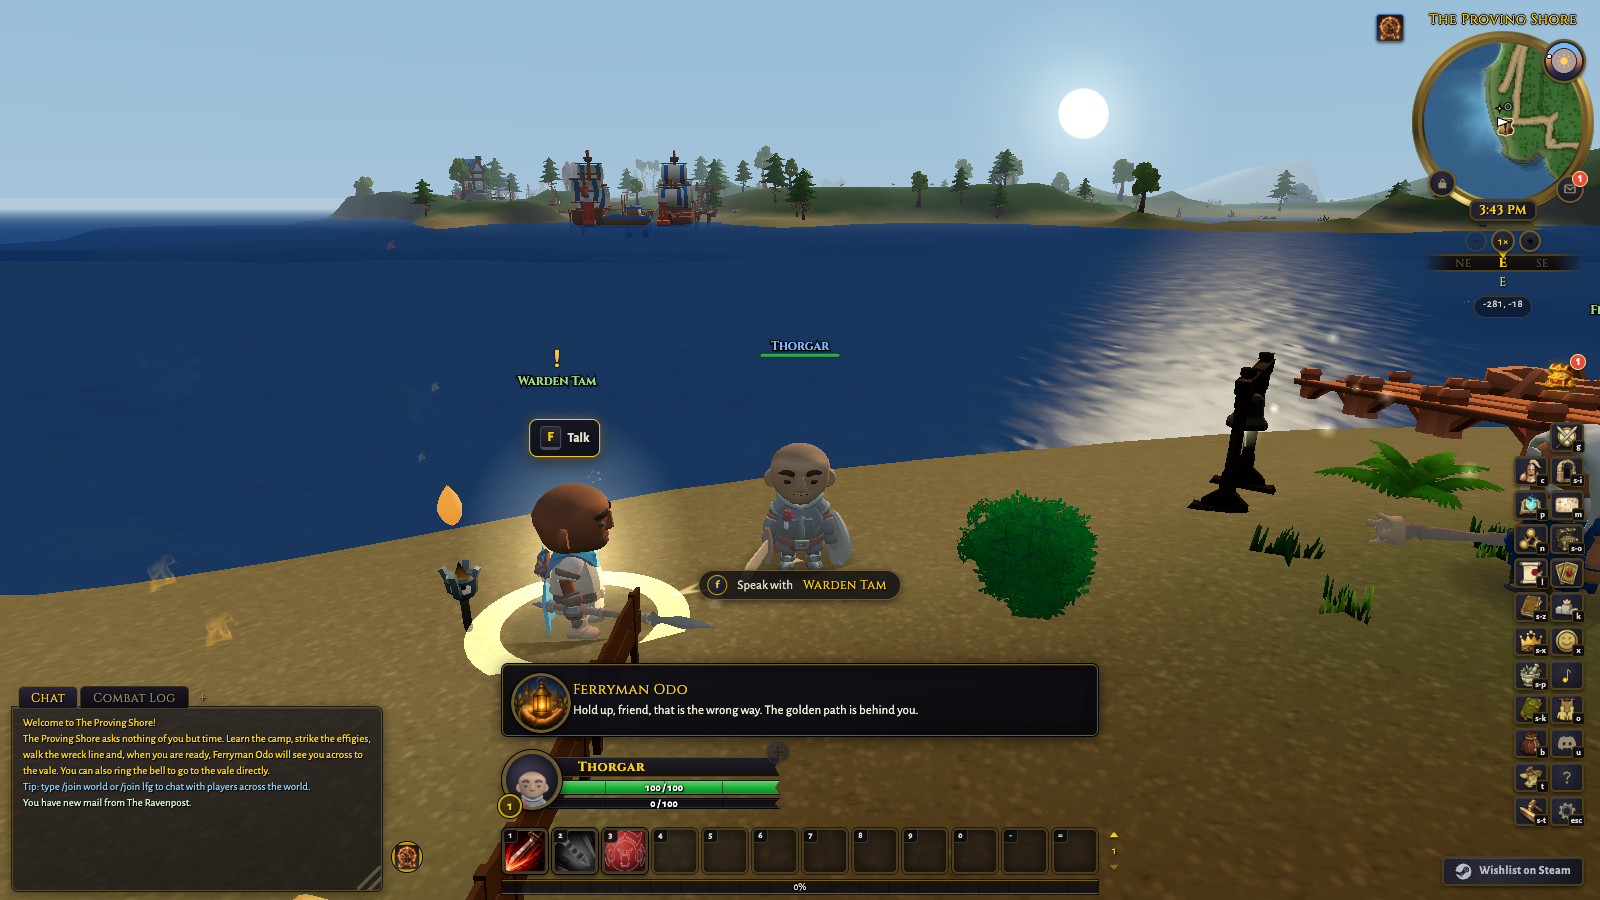
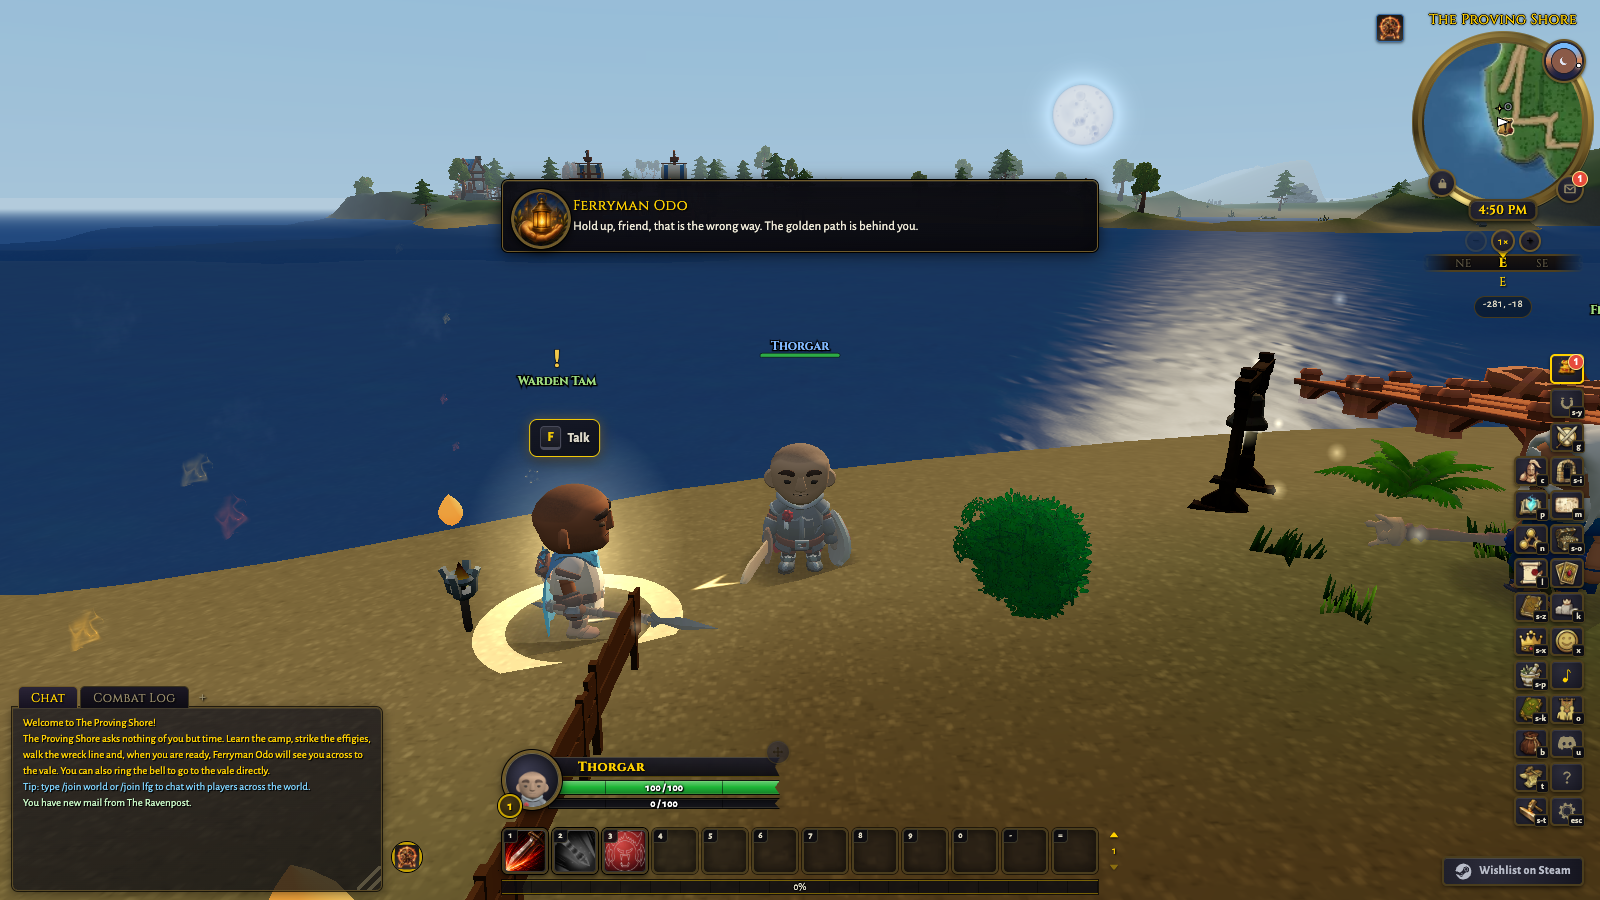
feat(hud): seat the Talking Head in view and make it a movable frame
Review round 3: seated at the top of the bottom stack, a line appearing
sat below the player's eye line and went unnoticed. The panel now rests a
fifth of the way down the screen, centred and one rail wide, between the
quest banner lane and the level banner, and it is standing markup in both
entries registered in the movable-frame table, so Unlock Interface lists
it as Dialogue with a forced placeholder to drag and resize while no line
is up, and a saved spot outranks the stock seat.

diff --git a/tests/talking_head.test.ts b/tests/talking_head.test.ts
@@ -11,6 +11,7 @@ import {
   TALKING_HEAD_ID,
   TalkingHeadController,
 } from '../src/ui/hud/talking_head';
+import { HUD_FRAME_SPECS } from '../src/ui/interface_unlock_core';
 
 const view = { viewportWidth: 1600, viewportHeight: 900, distanceYd: 10 };
 
@@ -52,17 +53,15 @@ describe('TalkingHeadController: mounts once at the top of the bottom stack and 
   let now = 1000;
   beforeEach(() => {
     now = 1000;
-    document.body.innerHTML =
-      '<div id="ui"><div id="actionbar-stack"><div id="pet-cluster"></div></div></div>';
+    document.body.innerHTML = '<div id="ui"><div id="actionbar-stack"></div></div>';
   });
 
-  it('prepends the panel to the stack, paints name and line, and hides on expiry', () => {
+  it('uses the standing panel in #ui (minting one only when the entry lacks it), paints name and line, and hides on expiry', () => {
     const c = new TalkingHeadController(() => now);
     c.say({ speakerId: 'ferryman_odo', speakerName: 'Ferryman Odo', text: 'Welcome ashore.' });
     const el = document.getElementById(TALKING_HEAD_ID) as HTMLElement;
     expect(el).not.toBeNull();
-    expect(el.previousElementSibling).toBeNull();
-    expect(el.nextElementSibling?.id).toBe('pet-cluster');
+    expect(el.parentElement?.id).toBe('ui');
     expect(el.hidden).toBe(false);
     expect(el.getAttribute('role')).toBe('status');
     expect(el.querySelector('.th-name')?.textContent).toBe('Ferryman Odo');
@@ -91,11 +90,28 @@ describe('TalkingHeadController: mounts once at the top of the bottom stack and 
 describe('talking head stylesheet seat', () => {
   const hud = readFileSync(join(__dirname, '../src/styles/hud.css'), 'utf8');
   const mobile = readFileSync(join(__dirname, '../src/styles/hud.mobile.css'), 'utf8');
-  it('rides the bottom stack above the frames on desktop and the top lane on touch', () => {
-    expect(hud).toContain('.talking-head {\n    display: flex;');
-    expect(hud).toContain('margin-bottom: var(--unit-frame-bar-gap);');
+  it('seats a fifth of the way down the screen, centred, and is a movable HUD frame', () => {
+    expect(hud).toContain(
+      '.talking-head {\n    position: absolute;\n    left: 50%;\n    top: 20%;\n    translate: -50% 0;',
+    );
+    // A saved editor spot writes inline left/top; the centring translate must
+    // not keep shifting it.
+    expect(hud).toContain('#talking-head.hud-frame-detached {\n    translate: none;');
     expect(hud).toContain('.talking-head[hidden] {\n    display: none;');
     expect(hud).not.toContain('.tut-voice {');
     expect(mobile).toContain('body.mobile-touch .talking-head {\n    position: fixed;');
+  });
+
+  it('is registered in the movable-frame table so the frames editor can seat it', () => {
+    const spec = HUD_FRAME_SPECS.find((s) => s.id === 'talkingHead');
+    expect(spec?.elementId).toBe('talking-head');
+    expect(spec?.storageKey).toBe('woc_hud_frame_talking_head');
+    expect(spec?.labelKey).toBe('hudChrome.talkingHead.label');
+    // Hidden between lines, so editing has to force the placeholder like the
+    // devotion medallion's, or there is nothing to grab.
+    expect(hud).toContain(
+      'body.interface-unlocked #talking-head.tf-unlocked {\n    display: flex !important;',
+    );
+    expect(hud).toContain('#talking-head.tf-unlocked {\n    pointer-events: auto;');
   });
 });

diff --git a/src/styles/hud.css b/src/styles/hud.css
@@ -486,18 +486,27 @@
      the top left lol"). It is a subtitle, so it sits where subtitles sit:
      low-center, above the movement bubble, clear of the unit frames. */
   /* Talking Head (src/ui/hud/talking_head/): an NPC line spoken to the player
-     while the speaker is off screen, where a world bubble would go unseen. It
-     rides the top of the bottom stack, so it sits above the unit frames and
-     grows the stack upward like the pet cluster. */
+     while the speaker is off screen, where a world bubble would go unseen. Its
+     stock seat is a fifth of the way down the screen, centred, between the
+     quest banner lane and the level banner, where a line appearing is noticed;
+     it is a movable HUD frame (HUD_FRAME_SPECS talkingHead), so a saved spot
+     outranks this seat. */
   .talking-head {
+    position: absolute;
+    left: 50%;
+    top: 20%;
+    translate: -50% 0;
+    z-index: 20;
     display: flex;
     align-items: center;
     gap: var(--spacing-sm);
-    width: 100%;
-    margin-bottom: var(--unit-frame-bar-gap);
+    width: min(var(--action-rail-w), calc(100% - 32px));
     padding: var(--spacing-sm) var(--spacing-md) var(--spacing-sm) var(--spacing-sm);
     pointer-events: none;
     text-align: left;
+  }
+  #talking-head.hud-frame-detached {
+    translate: none;
   }
   .talking-head[hidden] {
     display: none;
@@ -1627,6 +1636,7 @@
   #swingbar-offhand.tf-unlocked,
   #paladin-devotion-frame.tf-unlocked,
   #proc-overlay.tf-unlocked,
+  #talking-head.tf-unlocked,
   #meters-window.tf-unlocked {
     cursor: var(--cursor-move, move);
     outline: 1px dashed var(--gold);
@@ -1643,7 +1653,8 @@
   #delve-tracker.tf-unlocked,
   #rift-tracker.tf-unlocked,
   #paladin-devotion-frame.tf-unlocked,
-  #proc-overlay.tf-unlocked {
+  #proc-overlay.tf-unlocked,
+  #talking-head.tf-unlocked {
     pointer-events: auto;
   }
   /* The Target dots tracker and the six aura tracks are click-through in play
@@ -1925,7 +1936,8 @@
   body.interface-unlocked #petbar.tf-unlocked,
   body.interface-unlocked #stancebar.tf-unlocked,
   body.interface-unlocked #paladin-devotion-frame.tf-unlocked,
-  body.interface-unlocked .warlock-doom-frame.tf-unlocked {
+  body.interface-unlocked .warlock-doom-frame.tf-unlocked,
+  body.interface-unlocked #talking-head.tf-unlocked {
     display: flex !important;
     opacity: 0.55;
   }

diff --git a/src/ui/hud/talking_head/talking_head_controller.ts b/src/ui/hud/talking_head/talking_head_controller.ts
@@ -16,7 +16,7 @@ import {
   type TalkingHeadModel,
 } from './talking_head_core';
 
-const HOST_ID = 'actionbar-stack';
+const UI_ROOT_ID = 'ui';
 export const TALKING_HEAD_ID = 'talking-head';
 
 export class TalkingHeadController {
@@ -58,18 +58,23 @@ export class TalkingHeadController {
 
   private ensureDom(): boolean {
     if (this.root) return true;
-    const host = document.getElementById(HOST_ID);
-    if (!host) return false;
-    const el = document.createElement('div');
-    el.id = TALKING_HEAD_ID;
-    el.className = 'talking-head ui-panel-strong';
-    el.hidden = true;
-    el.setAttribute('role', 'status');
-    el.setAttribute('aria-label', t('hudChrome.talkingHead.label'));
-    el.innerHTML =
-      `<div class="portrait-wrap ui-portrait-wrap th-portrait-wrap"><div class="portrait ui-portrait"><canvas class="th-portrait" width="54" height="54"></canvas></div></div>` +
-      `<div class="th-body"><div class="th-name ui-h"></div><div class="th-text"></div></div>`;
-    host.prepend(el);
+    // The panel is standing HUD chrome in both entries (a movable frame, so it
+    // must exist at HUD boot); a headless document without it gets one minted.
+    let el = document.getElementById(TALKING_HEAD_ID);
+    if (!el) {
+      const host = document.getElementById(UI_ROOT_ID);
+      if (!host) return false;
+      el = document.createElement('div');
+      el.id = TALKING_HEAD_ID;
+      el.className = 'talking-head ui-panel-strong';
+      el.hidden = true;
+      el.setAttribute('role', 'status');
+      el.setAttribute('aria-label', t('hudChrome.talkingHead.label'));
+      el.innerHTML =
+        `<div class="portrait-wrap ui-portrait-wrap th-portrait-wrap"><div class="portrait ui-portrait"><canvas class="th-portrait" width="54" height="54"></canvas></div></div>` +
+        `<div class="th-body"><div class="th-name ui-h"></div><div class="th-text"></div></div>`;
+      host.appendChild(el);
+    }
     this.root = el;
     this.portraitEl = el.querySelector<HTMLCanvasElement>('.th-portrait');
     this.nameEl = el.querySelector<HTMLElement>('.th-name');

diff --git a/index.html b/index.html
@@ -240,6 +240,10 @@
       <span class="ctm-arrow ctm-s"></span>
       <span class="ctm-arrow ctm-w"></span>
     </div>
+    <div id="talking-head" class="talking-head ui-panel-strong" hidden role="status" data-i18n-aria="hudChrome.talkingHead.label" aria-label="Dialogue">
+      <div class="portrait-wrap ui-portrait-wrap th-portrait-wrap"><div class="portrait ui-portrait"><canvas class="th-portrait" width="54" height="54"></canvas></div></div>
+      <div class="th-body"><div class="th-name ui-h"></div><div class="th-text"></div></div>
+    </div>
     <div id="target-frame" class="unitframe" role="group" data-i18n-aria="hudChrome.unitFrame.targetLabel" aria-label="Your Mark">
       <div class="portrait-wrap ui-portrait-wrap" id="tf-portrait-wrap">
         <div class="portrait ui-portrait"><canvas id="tf-portrait" width="54" height="54"></canvas></div>

diff --git a/play.html b/play.html
@@ -190,6 +190,10 @@
       <span class="ctm-arrow ctm-s"></span>
       <span class="ctm-arrow ctm-w"></span>
     </div>
+    <div id="talking-head" class="talking-head ui-panel-strong" hidden role="status" data-i18n-aria="hudChrome.talkingHead.label" aria-label="Dialogue">
+      <div class="portrait-wrap ui-portrait-wrap th-portrait-wrap"><div class="portrait ui-portrait"><canvas class="th-portrait" width="54" height="54"></canvas></div></div>
+      <div class="th-body"><div class="th-name ui-h"></div><div class="th-text"></div></div>
+    </div>
     <div id="target-frame" class="unitframe" role="group" data-i18n-aria="hudChrome.unitFrame.targetLabel" aria-label="Your Mark">
       <div class="portrait-wrap ui-portrait-wrap" id="tf-portrait-wrap">
         <div class="portrait ui-portrait"><canvas id="tf-portrait" width="54" height="54"></canvas></div>

diff --git a/src/ui/interface_unlock_core.ts b/src/ui/interface_unlock_core.ts
@@ -306,6 +306,17 @@ export const HUD_FRAME_SPECS: readonly HudFrameSpec[] = [
     fallbackSize: { w: 300, h: 232 },
     detachToUiRoot: false,
   },
+  // The Talking Head (an NPC line while the speaker is off screen): a #ui child
+  // with a stock seat a fifth of the way down the screen; the chip reuses the
+  // panel's own accessible name.
+  {
+    id: 'talkingHead',
+    elementId: 'talking-head',
+    storageKey: 'woc_hud_frame_talking_head',
+    labelKey: 'hudChrome.talkingHead.label',
+    fallbackSize: { w: 596, h: 72 },
+    detachToUiRoot: false,
+  },
   // The tabbed combat meter (#meters-window). Its two pop-out windows (heal,
   // threat) keep their own MeterFrame drag: they are transient windows, not
   // standing HUD chrome. Box resize: the row list genuinely reflows and the

diff --git a/tests/interface_unlock_core.test.ts b/tests/interface_unlock_core.test.ts
@@ -46,6 +46,7 @@ describe('HUD_FRAME_SPECS', () => {
       'paladinDevotion',
       'doomMeter',
       'procOverlay',
+      'talkingHead',
       'damageMeter',
       'deedTracker',
       'delveTracker',
@@ -82,6 +83,7 @@ describe('HUD_FRAME_SPECS', () => {
       'paladin-devotion-frame',
       'warlock-doom-frame',
       'proc-overlay',
+      'talking-head',
       'meters-window',
       'deed-tracker',
       'delve-tracker',
@@ -142,6 +144,7 @@ describe('HUD_FRAME_SPECS', () => {
       // positions are player data; renaming the key orphans saved layouts).
       'woc_warlock_doom_frame_pos',
       'woc_hud_frame_proc_overlay',
+      'woc_hud_frame_talking_head',
       'woc_hud_frame_meters',
       'woc_hud_frame_deed_tracker',
       'woc_hud_frame_delve_tracker',

diff --git a/tests/client_shell.test.ts b/tests/client_shell.test.ts
@@ -578,7 +578,8 @@ describe('client HTML shell', () => {
   it('composes the unit-frame and cast primitives identically in both entries', () => {
     for (const entry of [html, playHtml]) {
       expect(entry.match(/class="portrait-wrap ui-portrait-wrap"/g) ?? []).toHaveLength(4);
-      expect(entry.match(/class="portrait ui-portrait"/g) ?? []).toHaveLength(4);
+      // Four unit-frame portraits plus the Talking Head's speaker portrait.
+      expect(entry.match(/class="portrait ui-portrait"/g) ?? []).toHaveLength(5);
       expect(entry.match(/class="level-chip ui-medal/g) ?? []).toHaveLength(4);
       expect(entry.match(/ui-cast-icon" hidden/g) ?? []).toHaveLength(2);
       expect(entry).toContain('class="ui-cast ui-cast--hostile"');

diff --git a/src/styles/hud.mobile.css b/src/styles/hud.mobile.css
@@ -2513,12 +2513,8 @@
      quest-banner lane under the top edge, clear of the sticks and the ring. */
   body.mobile-touch .talking-head {
     position: fixed;
-    left: 50%;
     top: max(56px, env(safe-area-inset-top));
-    transform: translateX(-50%);
     width: min(520px, calc(100vw - 120px));
-    margin: 0;
-    z-index: 20;
   }
   /* Issue: on a narrow landscape phone the true-centered pet bar can reach far
      enough left to sit on top of the #mobile-combat-controls row (Chat/Social/

diff --git a/DESIGN.md b/DESIGN.md
@@ -769,9 +769,11 @@ Every window adopts the grammar; these carry specific intent:
   speaker is off screen. NPC speech is a world chat bubble over the speaker whenever the player
   can see them (`speakerInView`, the same on-screen and range rule the bubbles are culled by);
   only when they cannot does the line land on this panel: portrait chip, speaker name in the
-  accent, the line in the light body tone on the strong panel surface, seated at the top of the
-  bottom stack above the unit frames (the quest-banner lane on touch). Cold and click-through,
-  it replaces the bare italic caption the Proving Shore coach used to float mid-screen.
+  accent, the line in the light body tone on the strong panel surface, seated a fifth of the way
+  down the screen, centred, between the quest banner lane and the level banner (the top lane on
+  touch), and movable through the frames editor like every other standing HUD frame. Cold and
+  click-through, it replaces the bare italic caption the Proving Shore coach used to float
+  mid-screen.
 - **Quest log** (`src/ui/hud/quest/questlog_window.ts`): quests group by zone. Each zone
   shows its count and has a collapse control; the detail pane keeps tracked state and
   reward sockets.
